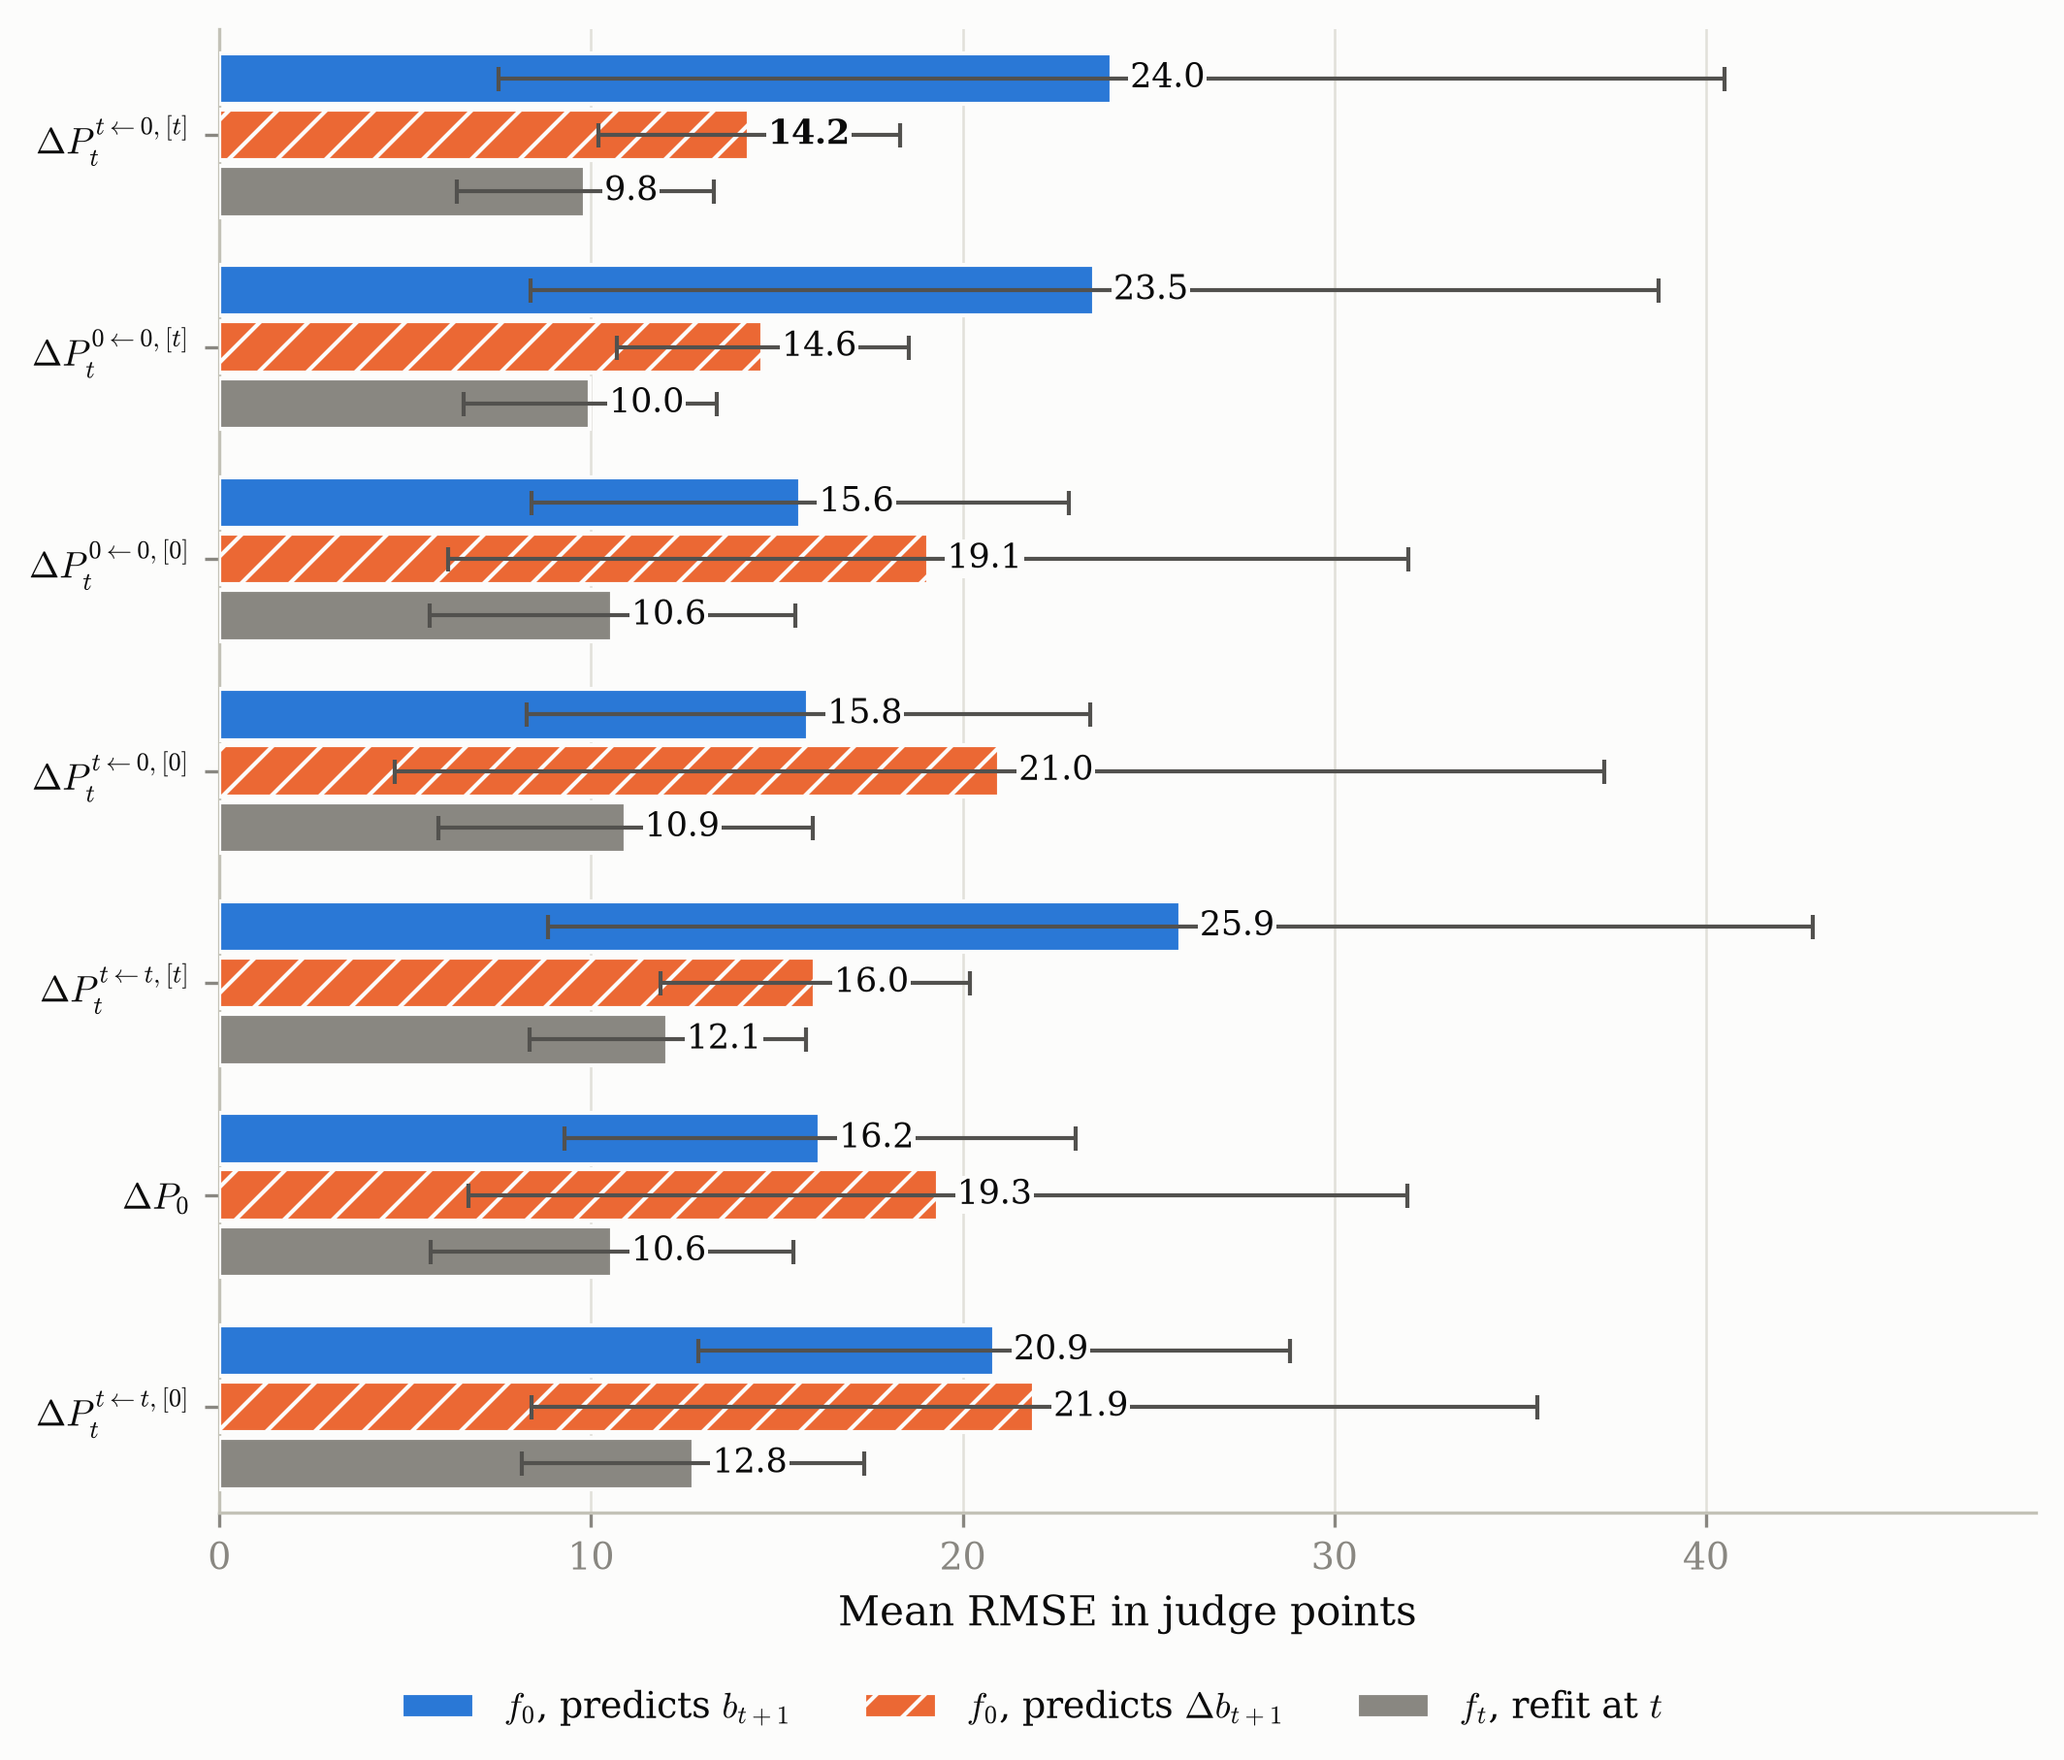
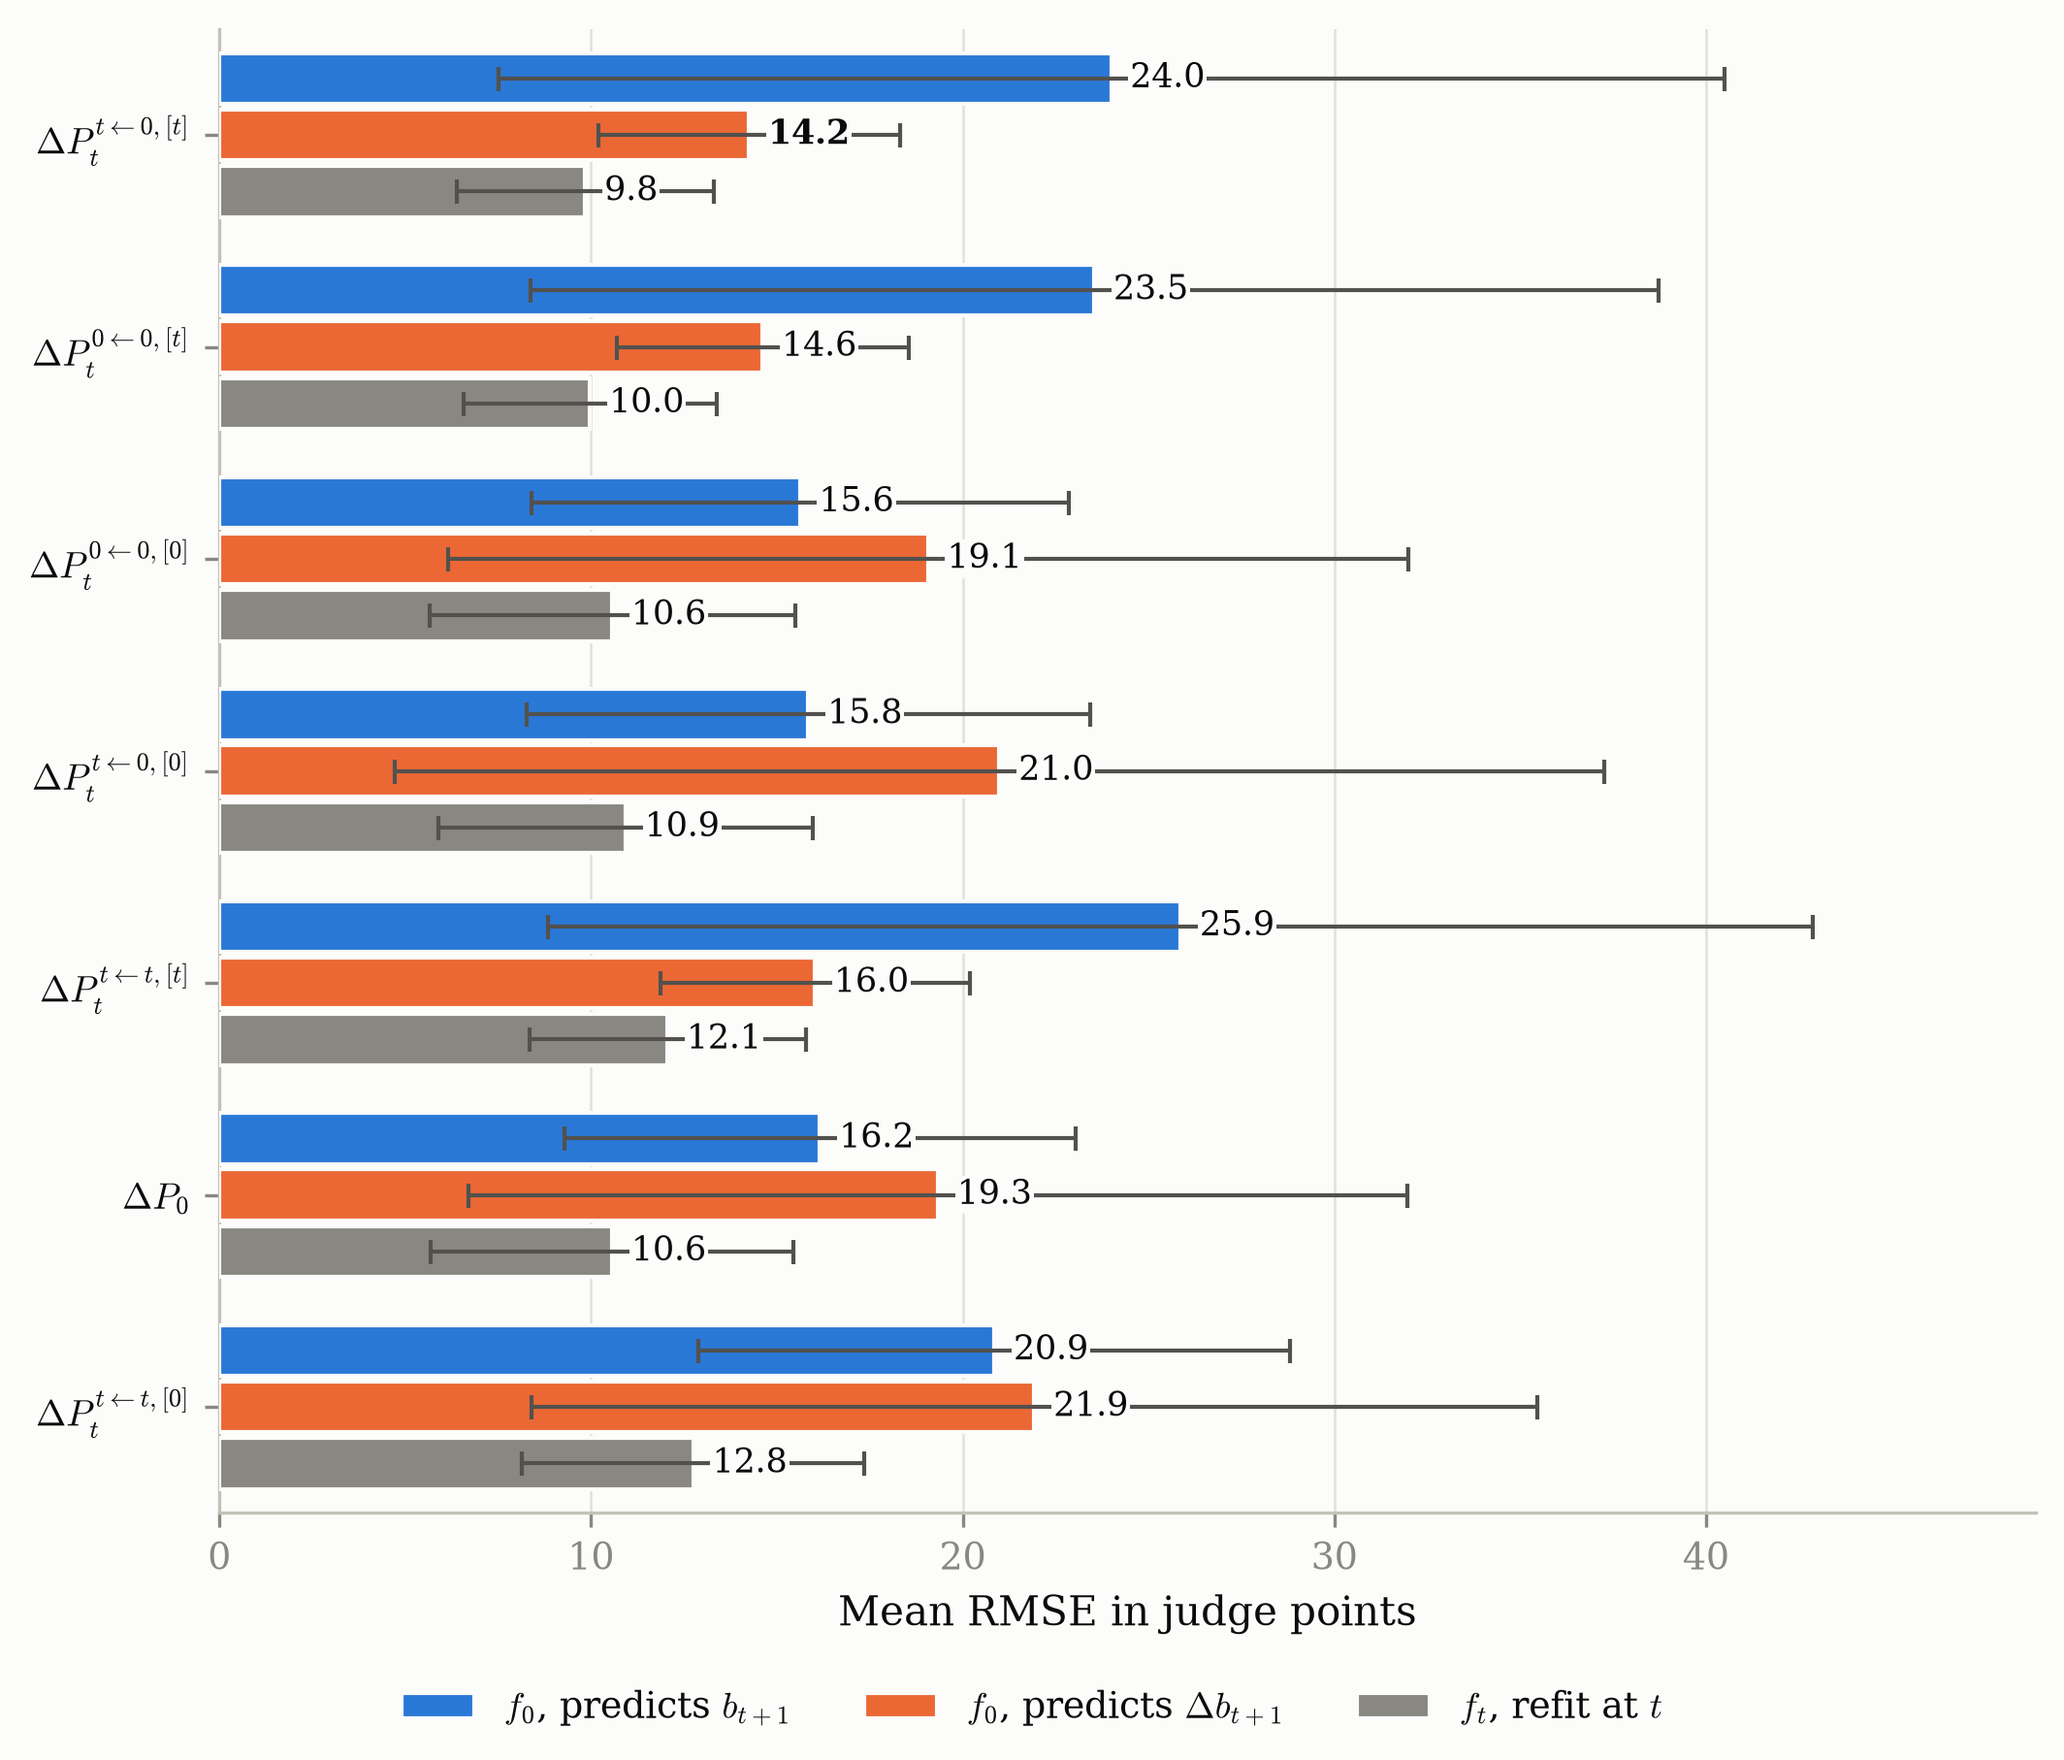
Refactor mean_rmse_bar function: remove hatch_col parameter and related logic; update tests accordingly

Changed region(s): [[0.1241, 0.1852, 0.3412, 0.2161], [0.1241, 0.0617, 0.3412, 0.0926], [0.1241, 0.3087, 0.1551, 0.3396]]

diff --git a/method/visualization/figures.py b/method/visualization/figures.py
@@ -532,7 +532,6 @@ def mean_rmse_bar(
     label_col: str = "label",
     group_col: str | None = None,
     color_col: str | None = None,
-    hatch_col: str | None = None,
     value_col: str = "mean_rmse",
     error_col: str | None = "sd_rmse",
     upper_bound_col: str | None = "upper_bound",
@@ -558,10 +557,10 @@ def mean_rmse_bar(
     legend carries it and the leading row is marked in bold alone rather than
     in orange.
 
-    ``color_col`` and ``hatch_col`` set the fill of each bar, for callers whose
-    methods already have an established encoding elsewhere.  Without them the
-    hue falls back to the ranking's own: grey for a reference, orange for the
-    leader, blue for everything else.
+    ``color_col`` sets the fill of each bar, for a caller whose methods already
+    have an established hue elsewhere.  Without it the colour falls back to the
+    ranking's own: grey for a reference, orange for the leader, blue for
+    everything else.
 
     ``error_col`` gives a descriptive spread for each bar, drawn as a capped
     horizontal error bar.  In exp2 it is the sample standard deviation of the
@@ -576,7 +575,7 @@ def mean_rmse_bar(
 
     optional = [
         column
-        for column in (error_col, upper_bound_col, color_col, hatch_col)
+        for column in (error_col, upper_bound_col, color_col)
         if column is not None and column in df
     ]
     shown = df[[*columns, *optional]].dropna(subset=[value_col])
@@ -638,11 +637,6 @@ def mean_rmse_bar(
             ]
         )
 
-    hatches = (
-        shown[hatch_col].fillna("").astype(str).tolist()
-        if hatch_col is not None and hatch_col in shown
-        else [""] * len(shown)
-    )
     bars = ax.barh(
         y,
         values,
@@ -652,10 +646,6 @@ def mean_rmse_bar(
         linewidth=1.0,
         zorder=3,
     )
-    # barh takes one hatch for the whole container, so a per-bar pattern has to
-    # be set on the patches afterwards.
-    for bar, hatch in zip(bars, hatches):
-        bar.set_hatch(hatch)
     if np.any(errors > 0):
         ax.errorbar(
             values,
@@ -699,11 +689,11 @@ def mean_rmse_bar(
         # under the axes rather than into a corner of them: which corner is
         # free depends on the data, and a whisker running behind the key is
         # worse than the row of height it costs.
-        seen = dict(zip(shown[label_col].astype(str), zip(colors, hatches)))
+        seen = dict(zip(shown[label_col].astype(str), colors))
         fig.legend(
             handles=[
-                Patch(facecolor=color, edgecolor=style.SURFACE, hatch=hatch)
-                for color, hatch in seen.values()
+                Patch(facecolor=color, edgecolor=style.SURFACE)
+                for color in seen.values()
             ],
             labels=list(seen),
             loc="lower center",

diff --git a/tests/test_forecast.py b/tests/test_forecast.py
@@ -1106,18 +1106,18 @@ class TestMeanRmseFigure:
         assert r"f_0\!\left(g\!\left(b_t\right)\,\Delta P_0\right)" in corrected
         assert "M_0" not in ranked + "".join(labels) + corrected
 
-    def test_the_two_targets_are_split_by_hue_and_by_the_hatch(self) -> None:
-        """The ``//`` separates the targets, as it does in the headline curves."""
+    def test_the_two_targets_are_split_by_hue(self) -> None:
+        """Only the target changes between the two frozen bars, so only hue does."""
         from method.visualization import make_plots, style
 
         fills = {
-            model: (bar.color, bar.hatch)
+            model: bar.color
             for model, bar in make_plots.HEADLINE_FORECAST_BARS.items()
         }
         assert fills == {
-            "step0_level": (style.BLUE, ""),
-            "step0": (style.ORANGE, "//"),
-            "oracle": (style.MUTED, ""),
+            "step0_level": style.BLUE,
+            "step0": style.ORANGE,
+            "oracle": style.MUTED,
         }
 
     def test_the_bar_figure_carries_both_targets_and_one_refit(self) -> None:
@@ -1167,12 +1167,10 @@ class TestMeanRmseFigure:
                     "sd_rmse": [0.8, 0.5, 0.3, 0.1],
                     "upper_bound": [False, True, False, True],
                     "color": [figures.style.ORANGE, figures.style.MUTED] * 2,
-                    "hatch": ["//", "", "//", ""],
                 }
             ),
             group_col="projection",
             color_col="color",
-            hatch_col="hatch",
         )
         try:
             ax = fig.axes[0]
@@ -1182,7 +1180,6 @@ class TestMeanRmseFigure:
             assert [patch.get_width() for patch in ax.patches] == [3.0, 1.0, 8.0, 5.0]
             assert to_hex(ax.patches[0].get_facecolor()) == figures.style.ORANGE
             assert to_hex(ax.patches[1].get_facecolor()) == figures.style.MUTED
-            assert [patch.get_hatch() for patch in ax.patches] == ["//", "", "//", ""]
             assert ax.get_yticklabels()[0].get_fontweight() == "bold"
             assert [text.get_text() for text in fig.legends[0].get_texts()] == [
                 "carried",

diff --git a/method/visualization/make_plots.py b/method/visualization/make_plots.py
@@ -1197,17 +1197,15 @@ class _ForecastBar:
 
     label: str
     color: str
-    hatch: str = ""
 
 
 #: What each bar of that figure is, in the order the bars are drawn within a
 #: row. The two frozen forecasters differ only in what $f_0$ was fitted to
-#: predict, and are separated twice over: by hue, and by the ``//`` that
-#: separates the same two targets in the headline curves. The refit is
-#: target-invariant, so it appears once, in grey, as their shared reference.
+#: predict, so hue is what separates them. The refit is target-invariant, so it
+#: appears once, in grey, as their shared reference.
 HEADLINE_FORECAST_BARS = {
     "step0_level": _ForecastBar(r"$f_0$, predicts $b_{t+1}$", style.BLUE),
-    "step0": _ForecastBar(r"$f_0$, predicts $\Delta b_{t+1}$", style.ORANGE, "//"),
+    "step0": _ForecastBar(r"$f_0$, predicts $\Delta b_{t+1}$", style.ORANGE),
     "oracle": _ForecastBar(r"$f_t$, refit at $t$", style.MUTED),
 }
 
@@ -1315,9 +1313,6 @@ def _forecast_mean_rmse_figures(
             color=lambda frame: [
                 HEADLINE_FORECAST_BARS[str(model)].color for model in frame["model"]
             ],
-            hatch=lambda frame: [
-                HEADLINE_FORECAST_BARS[str(model)].hatch for model in frame["model"]
-            ],
             projection=lambda frame: [
                 decay.SERIES_LABELS.get(str(series), str(series))
                 for series in frame["series"]
@@ -1334,7 +1329,7 @@ def _forecast_mean_rmse_figures(
         # ranking, which is the only one that orders every forecast against
         # every other.
         fig = figures.mean_rmse_bar(
-            headline, group_col="projection", color_col="color", hatch_col="hatch"
+            headline, group_col="projection", color_col="color"
         )
         _emit(fig, "exp2_forecast_rmse_bar", out_dir, saved)
         fig = figures.mean_rmse_bar(headline, label_col="ranked_label")
